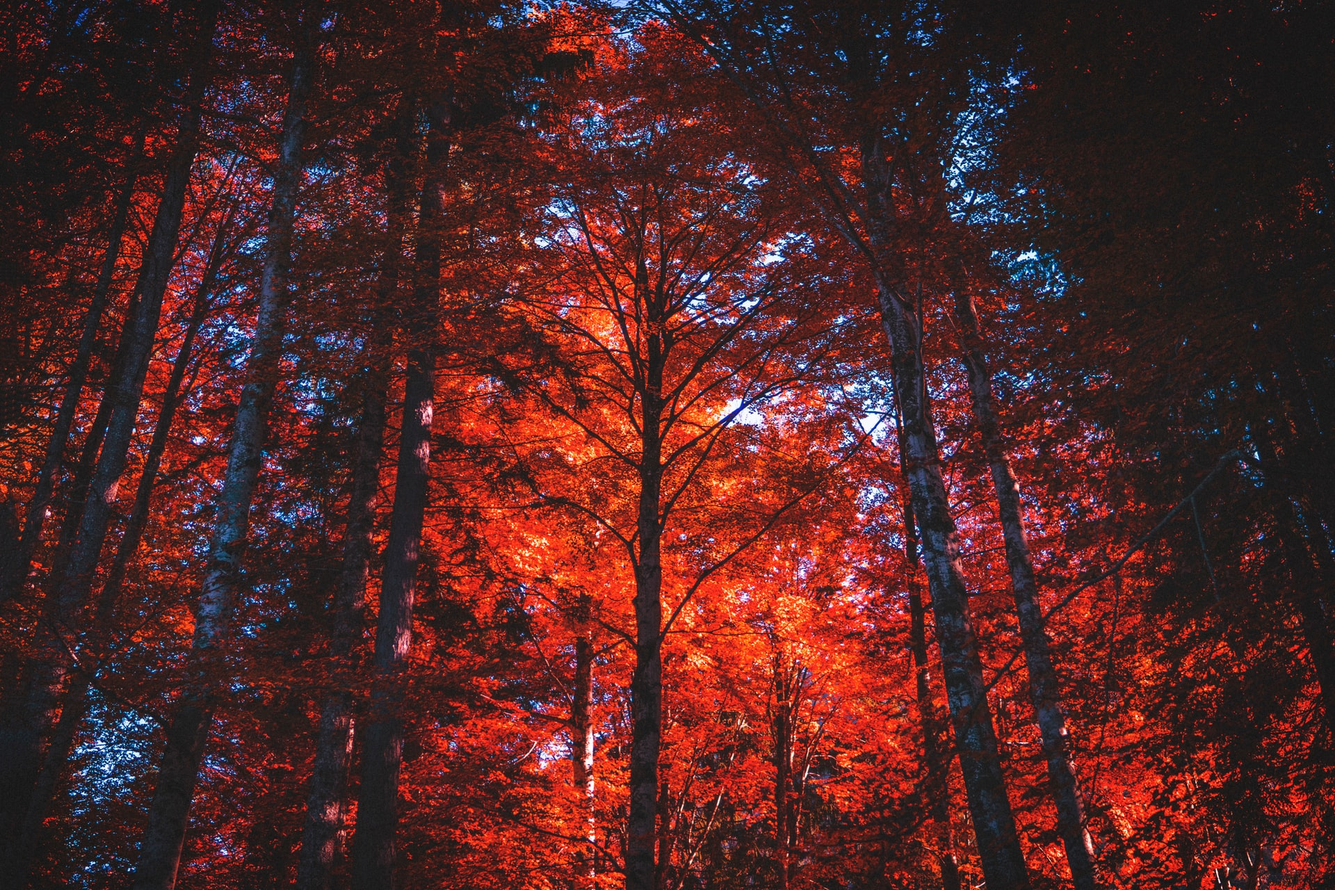
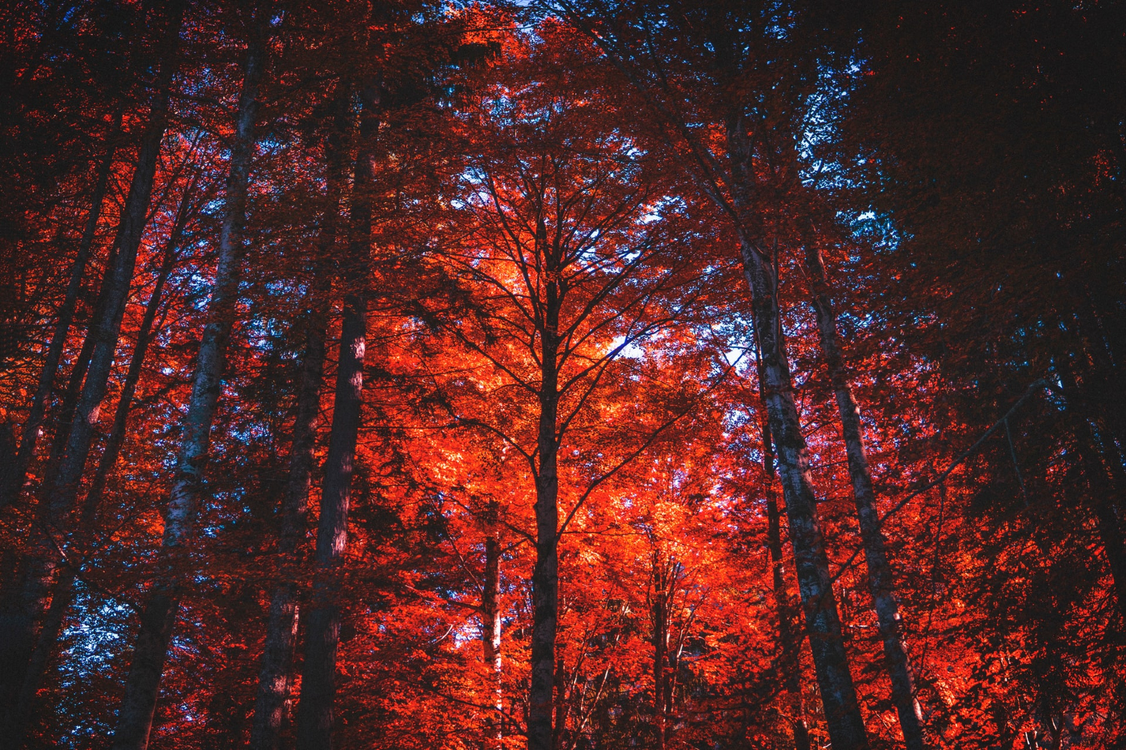
Editing Styling and ReadME

diff --git a/assets/css/style.css b/assets/css/style.css
@@ -309,7 +309,7 @@ section, footer{
       rgba(0, 0, 0, 0.5), 
       rgba(0, 0, 0, 0.5) 
     ),
-		url('../../assets/img/low-poly.jpg');
+		url('../../assets/img/hero-images/forest-fall.jpg');
     background-position: center;
     background-size: cover;
 		background-repeat: no-repeat;		

diff --git a/README.md b/README.md
@@ -13,7 +13,7 @@ My personal responsive portfolio website built with HTML/CSS jQuery.
 
 ## Images acredation
 
-Hero image by [Simone Dalmeri on Unsplash](https://unsplash.com/@simone_dalmeri) 
+Hero image by: [Simone Dalmeri on Unsplash](https://unsplash.com/@simone_dalmeri) 
 
 ## Author
 
